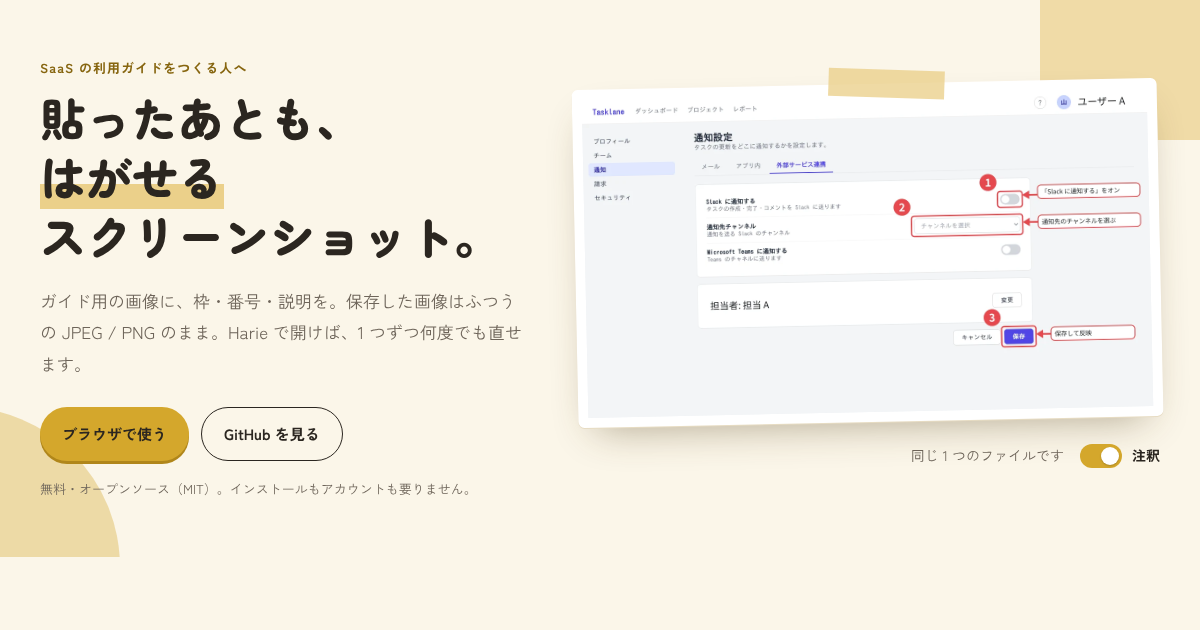
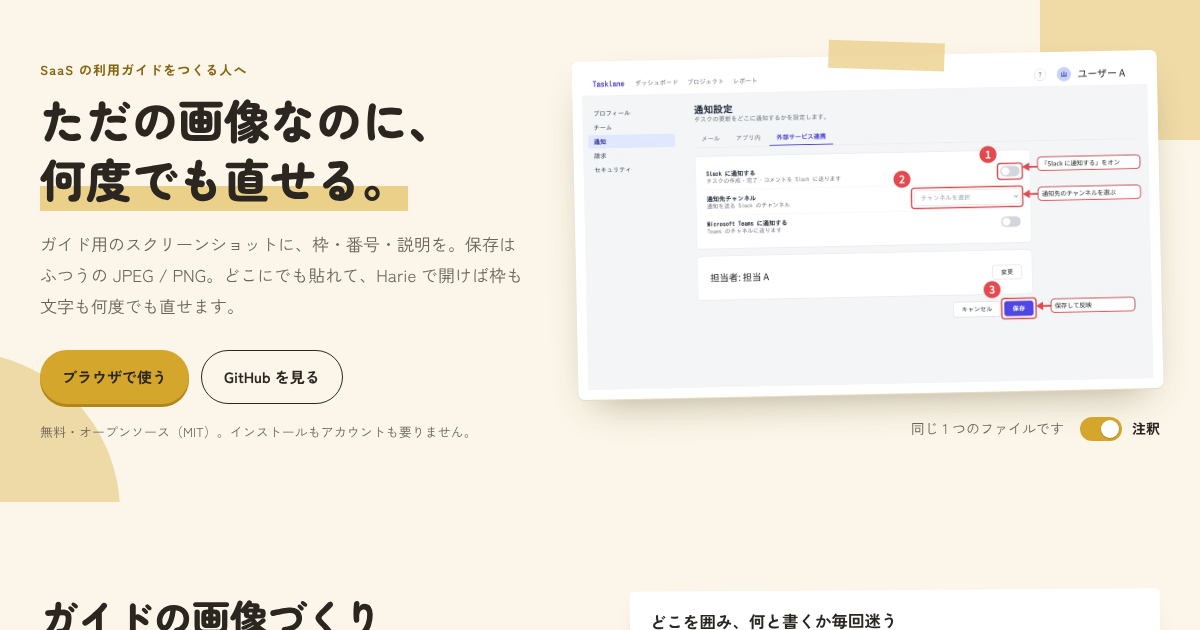
feat(site): LP のキャッチコピーを「ただの画像なのに、何度でも直せる。」にする
英語版は "Just an image. Editable anytime."。説明文・締めの見出し・OGP・SNS 用画像と訴求整理の文書も合わせる。

Claude-Session: https://claude.ai/code/session_01GF6HAVfDLPu3oGNENvnbi8

diff --git a/apps/site/src/index.html b/apps/site/src/index.html
@@ -3,7 +3,7 @@
   <head>
     <meta charset="UTF-8" />
     <meta name="viewport" content="width=device-width, initial-scale=1.0" />
-    <title>Harie — 貼ったあとも、はがせるスクリーンショット</title>
+    <title>Harie — ただの画像なのに、何度でも直せる</title>
     <meta
       name="description"
       content="ガイド用のスクリーンショットに枠・番号・説明を付けるツール。保存した画像はふつうの JPEG / PNG のまま、Harie で開けば何度でも直せます。AI の補足提案、個人情報のダミー置換、Chrome 拡張、MCP に対応したオープンソースです。"
@@ -12,7 +12,7 @@
     <meta property="og:type" content="website" />
     <meta property="og:locale" content="ja_JP" />
     <meta property="og:locale:alternate" content="en_US" />
-    <meta property="og:title" content="Harie — 貼ったあとも、はがせるスクリーンショット" />
+    <meta property="og:title" content="Harie — ただの画像なのに、何度でも直せる" />
     <meta
       property="og:description"
       content="保存した画像はふつうの JPEG / PNG のまま。Harie で開けば、枠も番号も説明も何度でも直せます。"
@@ -59,11 +59,11 @@
           <div class="hero-copy">
             <p class="eyebrow">SaaS の利用ガイドをつくる人へ</p>
             <h1>
-              貼ったあとも、<br /><em>はがせる</em><br /><span class="nb">スクリーンショット。</span>
+              <span class="nb">ただの画像なのに、</span><br /><em>何度でも直せる。</em>
             </h1>
             <p class="lead">
-              ガイド用の画像に、枠・番号・説明を。保存した画像はふつうの JPEG / PNG のまま。Harie
-              で開けば、1 つずつ何度でも直せます。
+              ガイド用のスクリーンショットに、枠・番号・説明を。保存はふつうの JPEG /
+              PNG。どこにでも貼れて、Harie で開けば枠も文字も何度でも直せます。
             </p>
             <div class="cta">
               <a class="btn btn-primary" href="./app/">ブラウザで使う</a>
@@ -326,7 +326,7 @@
       <section class="closing">
         <div class="container closing-in">
           <img src="assets/harie-symbol.svg" alt="" width="72" height="72" />
-          <h2 class="h2">次のガイドから、<span class="nb">はがせる画像で。</span></h2>
+          <h2 class="h2">次のガイドから、<span class="nb">何度でも直せる画像で。</span></h2>
           <div class="cta">
             <a class="btn btn-primary" href="./app/">ブラウザで使う</a>
             <a class="btn btn-ghost" href="https://github.com/hosshan/harie">GitHub を見る</a>

diff --git a/apps/site/src/en/index.html b/apps/site/src/en/index.html
@@ -3,7 +3,7 @@
   <head>
     <meta charset="UTF-8" />
     <meta name="viewport" content="width=device-width, initial-scale=1.0" />
-    <title>Harie — Screenshots that stay editable after you publish</title>
+    <title>Harie — Just an image. Editable anytime.</title>
     <meta
       name="description"
       content="Add boxes, numbers and notes to the screenshots in your help docs. Harie saves a regular JPEG or PNG that you can reopen and edit any time. Open source, with AI suggestions, personal data masking, a Chrome extension and an MCP server."
@@ -12,7 +12,7 @@
     <meta property="og:type" content="website" />
     <meta property="og:locale" content="en_US" />
     <meta property="og:locale:alternate" content="ja_JP" />
-    <meta property="og:title" content="Harie — Screenshots that stay editable after you publish" />
+    <meta property="og:title" content="Harie — Just an image. Editable anytime." />
     <meta
       property="og:description"
       content="Harie saves a regular JPEG or PNG. Open it in Harie again and every box, number and note is still editable."
@@ -58,11 +58,11 @@
         <div class="container hero-in">
           <div class="hero-copy">
             <p class="eyebrow">For people who write SaaS help guides</p>
-            <h1>Screenshots that <em>stay editable</em> after you publish.</h1>
+            <h1>Just an image.<br /><em>Editable anytime.</em></h1>
             <p class="lead">
               Add boxes, numbers and notes to the screenshots in your guides. Harie saves a regular
-              JPEG or PNG, and when you open it in Harie again, every annotation is still there to
-              change.
+              JPEG or PNG you can paste anywhere, and when you open it in Harie, every box and caption
+              is still editable.
             </p>
             <div class="cta">
               <a class="btn btn-primary" href="../app/">Open in browser</a>
@@ -334,7 +334,7 @@
       <section class="closing">
         <div class="container closing-in">
           <img src="../assets/harie-symbol.svg" alt="" width="72" height="72" />
-          <h2 class="h2">Make your next guide one you can still edit.</h2>
+          <h2 class="h2">Make your next guide editable anytime.</h2>
           <div class="cta">
             <a class="btn btn-primary" href="../app/">Open in browser</a>
             <a class="btn btn-ghost" href="https://github.com/hosshan/harie">View on GitHub</a>

diff --git a/docs/02-research/lp-positioning.md b/docs/02-research/lp-positioning.md
@@ -41,9 +41,11 @@ GitHub Pages で公開する LP のために、近いツールの訴求を調べ
 
 ### 中心の一言
 
-> 貼ったあとも、はがせるスクリーンショット。
+> ただの画像なのに、何度でも直せる。
 
-保存した画像は普通の JPEG / PNG。ヘルプページにそのまま貼れて、Harie で開けば枠も矢印も説明文も 1 つずつ直せる。名前の由来の「貼り絵」とつなげる。
+「普通の画像に見える形で保存できる」と「何度でも編集できる」の 2 点を、1 文の対比で言う。説明文で「保存はふつうの JPEG / PNG。どこにでも貼れて、Harie で開けば枠も文字も何度でも直せます。」と補う。
+
+- 初案は「貼ったあとも、はがせるスクリーンショット。」（名前の由来の貼り絵にかけた）だったが、意味が伝わりにくいので 2026-10-19 に差し替えた。
 
 ### 訴求の柱（優先順）
 
@@ -80,12 +82,11 @@ GitHub Pages で公開する LP のために、近いツールの訴求を調べ
 
 | 日本語 | 英語 |
 |---|---|
-| 貼ったあとも、はがせるスクリーンショット。 | Screenshots that stay editable after you publish. |
+| ただの画像なのに、何度でも直せる。 | Just an image. Editable anytime. |
 | 撮って、補って、残す。 | Capture. Annotate. Keep. |
 | 1 枚の画像に、元の画面と注釈が入っている。 | One image holds the original screen and the annotations. |
 | 何の画面かは伝わるまま、個人情報だけ消す。 | Remove personal data, keep the meaning. |
 
-- 「はがせる」（貼り絵）の言葉遊びは英語では伝わらないので、英語の中心の一言は「公開後も直せる」にした。注釈を外すデモは同じように見せる。
 - エディタの画面は今は日本語だけなので、英語版ではそのことをヒーローの注記と Web の説明に書く。
 - 見本画像は英語の画面（架空の Tasklane）で作る。
 
